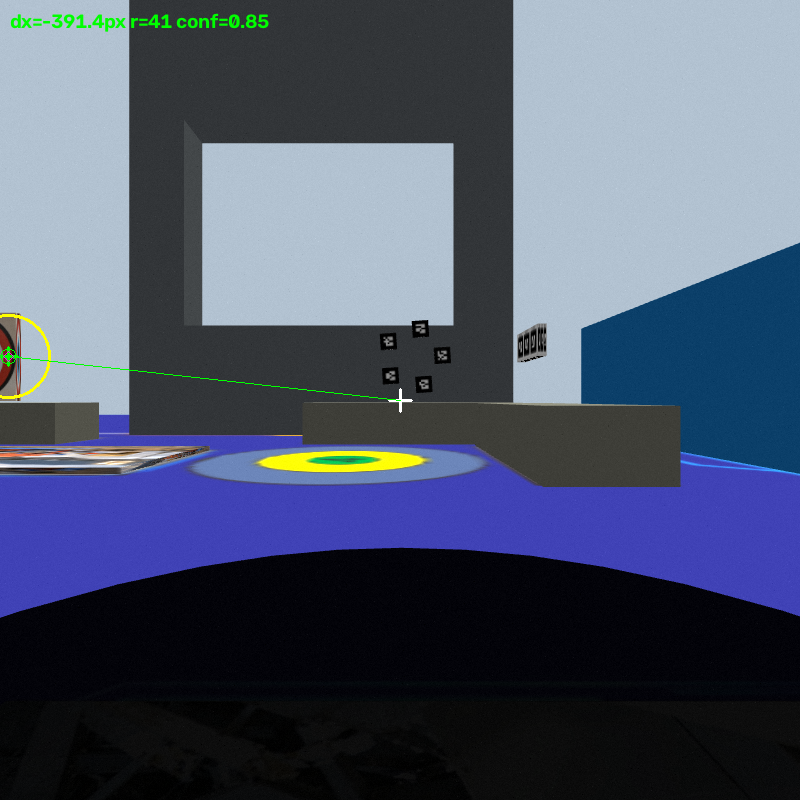
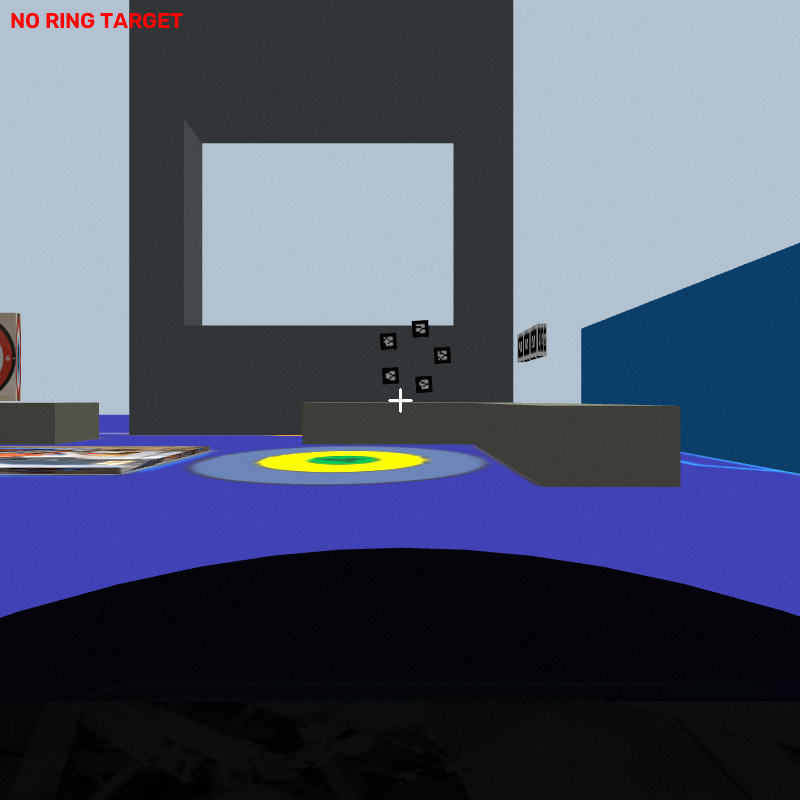
fix(射击): 环形靶 ROI 收到 0.53 并要求内环色，挡掉纯红假阳性
## 联调第二次结果

② 旋转靶 ✅ 成功 —— side 修复生效，横向稳定在 -12mm 不再来回跳：
  [过程] 轮角=201.7 竖直=+48mm 横向=-12mm 对准=是
  [过程] 轮角=215.7 竖直=+28mm 横向=-12mm 对准=是
  窗口命中：靶位 3（轮角=220 叶片竖直=+22mm 侧=左 横向=-12mm 朝向误差=-0.5）
③④ 移动靶 ✅ 也成功，且按识别结果打了不同编号（moving_3->8号、moving_4->6号）

① 环形靶 ❌ 仍失败，但日志给出了确切原因：
  [检测] ok dx=+378.7px dy=-47.5px r=47 conf=0.85 色=['red']
  —— 检到的是画面右侧一个纯红色物体，不是真靶。

## 根因（两层）

1) ROI=0.55 不够低：下方彩色地面贴图污染了蓝色掩码，蓝环被 r99 上限丢掉，
   真靶只剩红色检出。所以历史上 conf 一直是 0.85（单色），
   而且这也意味着「检测器从来没检验过内环」。
2) 既然真靶只有红色被检出，那纯红物体自然也能通过 —— 假阳性由此产生。

## 修复

- roi_y_max_ratio 默认 0.55 -> 0.53（实测 0.53/0.52/0.50 三色齐全，
  0.55 只有红色）
- 新增 REQUIRE_INNER_COLOR：要求至少检出 blue 或 yellow 才认为有效
  （真十环靶必然有蓝环 8 环；纯红物体没有）

## 回归验证

离线参考图（真靶不能被误杀）：
  point1_ring.png ✅ 靶心(408.6,356.8) r=41.5 dx=+8.6 conf=1.00
  真值(410,358) r=41 -> 靶心误差 1.8px（此前 2.4px），conf 0.85 -> 1.00
合成纯红圆盘（假阳性必须被挡）：
  内环要求开 -> 未检出（只有外环色、缺蓝/黄内环），
  内环要求关 -> 检出 r=47（与联调观测的 r=47 一致）

## 附带

point2_wheel_* 现在不再把画面左缘露出的部分环形靶误检成靶（更少假阳性）。
ring_detect.py 的两份副本已同步（包内 + 交付包脚本）。

Changed region(s): [[0.0, 0.0, 0.3438, 0.0625], [0.0, 0.4062, 0.0625, 0.5], [0.0, 0.375, 0.0312, 0.4062]]

diff --git a/sim_ws/src/ican_shoot/ican_shoot/ring_detect.py b/sim_ws/src/ican_shoot/ican_shoot/ring_detect.py
@@ -66,6 +66,10 @@ OUTER_COLOR = "red"     # 最外环，用来量靶半径
 CONCENTRIC_TOL = 12.0
 # 靶半径合理范围（实测 1.54 m 处半径约 41 px；留出靠近/远离的余量）
 RADIUS_RANGE = (8.0, 70.0)
+# 是否要求检出内环色（蓝/黄）才认为有效。
+# 真十环靶必然同时有红环(6环)与蓝环(8环)；实测联调时画面右侧某个纯红物体
+# 被误检成靶（r=47、dx=+378px、只有 'red'），而真靶检出的是 ['red','blue']。
+REQUIRE_INNER_COLOR = True
 
 
 def color_mask(hsv: np.ndarray, color: str) -> np.ndarray:
@@ -87,15 +91,17 @@ def blob_stats(mask: np.ndarray, min_pixels: int):
     return cx, cy, int(n), float(np.percentile(d, 99))
 
 
-def detect_ring(bgr: np.ndarray, roi_y_max_ratio: float = 0.55,
+def detect_ring(bgr: np.ndarray, roi_y_max_ratio: float = 0.53,
                 max_radius: float = RADIUS_RANGE[1]):
     """检测环形靶。
 
     返回 dict: ok / x / y / dx / dy / radius / conf / parts
     dx>0 表示靶心在画面中心右侧，需要向右（顺时针）转。
 
-    ROI 默认只取上 55%：靶在画面上部，而下方彩色地面贴图会把红/黄掩码
+    ROI 默认只取上 53%：靶在画面上部，而下方彩色地面贴图会把红/黄掩码
     拉成 r99 达 300~440 px 的巨块，必须排除（实测 0.60H 时全部失效）。
+    0.55 这个值不够低 —— 蓝环会被地面污染掉，导致真靶只剩红色检出，
+    conf 只有 0.85，且纯红物体也能通过检查。收到 0.53 后三色齐全、conf=1.00。
     """
     h, w = bgr.shape[:2]
     hsv = cv2.cvtColor(bgr, cv2.COLOR_BGR2HSV)
@@ -117,6 +123,14 @@ def detect_ring(bgr: np.ndarray, roi_y_max_ratio: float = 0.55,
     if not raw:
         return {"ok": False, "x": None, "y": None, "dx": None, "dy": None,
                 "radius": None, "conf": 0.0, "parts": raw}
+
+    # 假阳性过滤：真十环靶必然同时有红环(6环)与蓝环(8环)。
+    # 实测联调时画面右侧某个纯红物体被误检成靶（r=47、dx=+378px、只有 'red'），
+    # 而真靶检出的是 ['red','blue']。要求至少有一个内环色可显著排除这类误检。
+    if REQUIRE_INNER_COLOR and not ({"blue", "yellow"} & set(raw.keys())):
+        return {"ok": False, "x": None, "y": None, "dx": None, "dy": None,
+                "radius": None, "conf": 0.0, "parts": raw,
+                "reject": "只有外环色、缺蓝/黄内环 -> 判为误检"}
 
     # 以"最外环优先"的顺序选锚点，再只接受与锚点同心的颜色
     anchor = None

diff --git a/交付包/射击/脚本/ring_detect.py b/交付包/射击/脚本/ring_detect.py
@@ -66,6 +66,10 @@ OUTER_COLOR = "red"     # 最外环，用来量靶半径
 CONCENTRIC_TOL = 12.0
 # 靶半径合理范围（实测 1.54 m 处半径约 41 px；留出靠近/远离的余量）
 RADIUS_RANGE = (8.0, 70.0)
+# 是否要求检出内环色（蓝/黄）才认为有效。
+# 真十环靶必然同时有红环(6环)与蓝环(8环)；实测联调时画面右侧某个纯红物体
+# 被误检成靶（r=47、dx=+378px、只有 'red'），而真靶检出的是 ['red','blue']。
+REQUIRE_INNER_COLOR = True
 
 
 def color_mask(hsv: np.ndarray, color: str) -> np.ndarray:
@@ -87,15 +91,17 @@ def blob_stats(mask: np.ndarray, min_pixels: int):
     return cx, cy, int(n), float(np.percentile(d, 99))
 
 
-def detect_ring(bgr: np.ndarray, roi_y_max_ratio: float = 0.55,
+def detect_ring(bgr: np.ndarray, roi_y_max_ratio: float = 0.53,
                 max_radius: float = RADIUS_RANGE[1]):
     """检测环形靶。
 
     返回 dict: ok / x / y / dx / dy / radius / conf / parts
     dx>0 表示靶心在画面中心右侧，需要向右（顺时针）转。
 
-    ROI 默认只取上 55%：靶在画面上部，而下方彩色地面贴图会把红/黄掩码
+    ROI 默认只取上 53%：靶在画面上部，而下方彩色地面贴图会把红/黄掩码
     拉成 r99 达 300~440 px 的巨块，必须排除（实测 0.60H 时全部失效）。
+    0.55 这个值不够低 —— 蓝环会被地面污染掉，导致真靶只剩红色检出，
+    conf 只有 0.85，且纯红物体也能通过检查。收到 0.53 后三色齐全、conf=1.00。
     """
     h, w = bgr.shape[:2]
     hsv = cv2.cvtColor(bgr, cv2.COLOR_BGR2HSV)
@@ -117,6 +123,14 @@ def detect_ring(bgr: np.ndarray, roi_y_max_ratio: float = 0.55,
     if not raw:
         return {"ok": False, "x": None, "y": None, "dx": None, "dy": None,
                 "radius": None, "conf": 0.0, "parts": raw}
+
+    # 假阳性过滤：真十环靶必然同时有红环(6环)与蓝环(8环)。
+    # 实测联调时画面右侧某个纯红物体被误检成靶（r=47、dx=+378px、只有 'red'），
+    # 而真靶检出的是 ['red','blue']。要求至少有一个内环色可显著排除这类误检。
+    if REQUIRE_INNER_COLOR and not ({"blue", "yellow"} & set(raw.keys())):
+        return {"ok": False, "x": None, "y": None, "dx": None, "dy": None,
+                "radius": None, "conf": 0.0, "parts": raw,
+                "reject": "只有外环色、缺蓝/黄内环 -> 判为误检"}
 
     # 以"最外环优先"的顺序选锚点，再只接受与锚点同心的颜色
     anchor = None

diff --git a/sim_ws/src/ican_shoot/ican_shoot/ring_shooter_node.py b/sim_ws/src/ican_shoot/ican_shoot/ring_shooter_node.py
@@ -81,7 +81,7 @@ class RingShooterNode(Node):
         # ---- 视觉 ----
         self.declare_parameter("publish_debug_image", False)
         self.declare_parameter("debug_every", 10)
-        self.declare_parameter("roi_y_max_ratio", 0.55)
+        self.declare_parameter("roi_y_max_ratio", 0.53)
         self.declare_parameter("min_conf", 0.55)
 
         # ---- 闭环瞄准 ----
